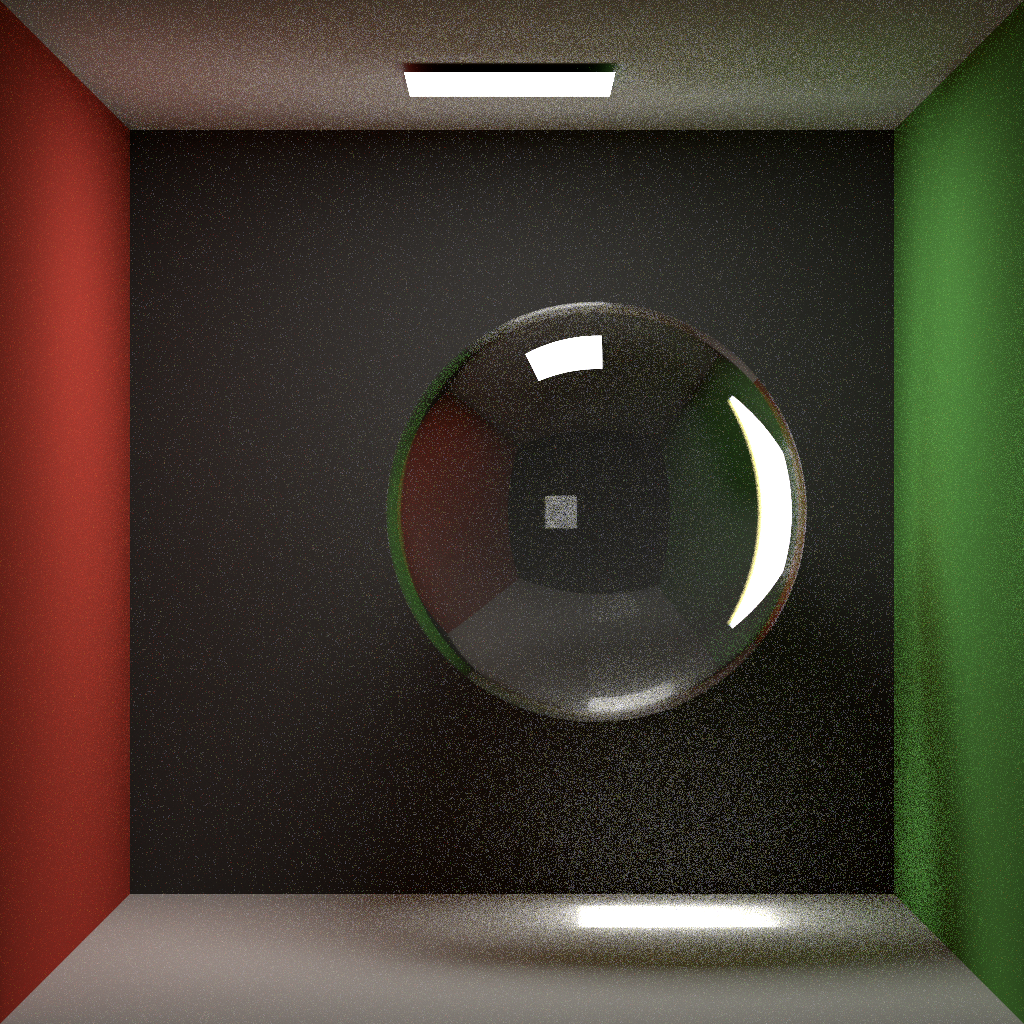
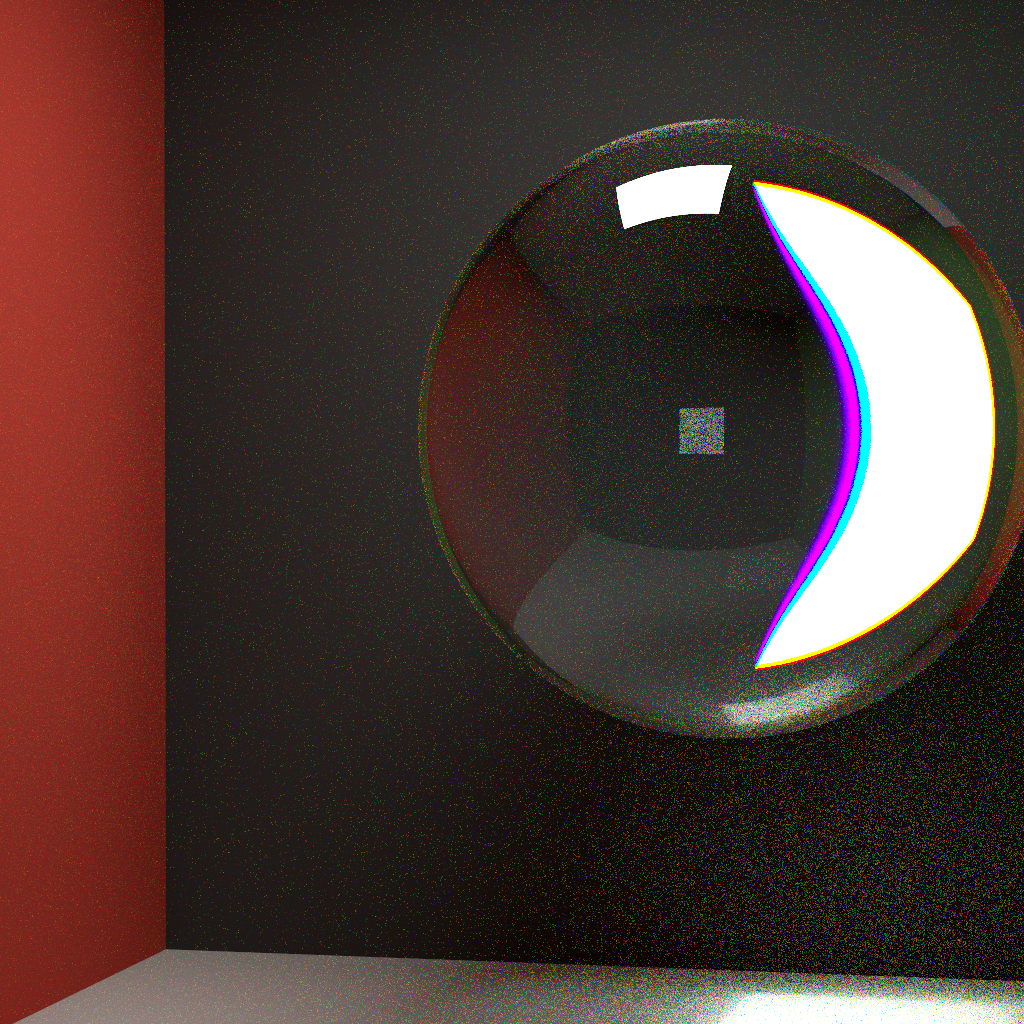
update glass

diff --git a/src/base/scattering/material.h b/src/base/scattering/material.h
@@ -40,6 +40,9 @@ public:
         // todo
         return {swl.dimension(), 0.f};
     }
+    [[nodiscard]] virtual optional<Bool> is_dispersive() const noexcept {
+        return {};
+    }
     [[nodiscard]] static Uchar combine_flag(Float3 wo, Float3 wi, Uchar flag) noexcept;
     [[nodiscard]] ScatterEval evaluate(Float3 world_wo, Float3 world_wi) const noexcept;
     [[nodiscard]] BSDFSample sample(Float3 world_wo, Sampler *sampler) const noexcept;
@@ -50,14 +53,21 @@ private:
     SP<const Fresnel> _fresnel;
     MicrofacetReflection _refl;
     MicrofacetTransmission _trans;
+    Bool _dispersive{};
 
 public:
     DielectricBSDF(const Interaction &si,
                    const SP<Fresnel> &fresnel,
                    MicrofacetReflection refl,
-                   MicrofacetTransmission trans)
-        : BSDF(si, refl.swl()), _fresnel(fresnel), _refl(move(refl)), _trans(move(trans)) {}
+                   MicrofacetTransmission trans,
+                   const Bool &dispersive)
+        : BSDF(si, refl.swl()), _fresnel(fresnel),
+          _refl(move(refl)), _trans(move(trans)),
+    _dispersive(dispersive){}
     [[nodiscard]] SampledSpectrum albedo() const noexcept override { return _refl.albedo(); }
+    [[nodiscard]] optional<Bool> is_dispersive() const noexcept override {
+        return _dispersive;
+    }
     [[nodiscard]] ScatterEval evaluate_local(Float3 wo, Float3 wi, Uchar flag) const noexcept override;
     [[nodiscard]] BSDFSample sample_local(Float3 wo, Uchar flag, Sampler *sampler) const noexcept override;
 };

diff --git a/src/plugins/integrators/pt.cpp b/src/plugins/integrators/pt.cpp
@@ -115,6 +115,11 @@ public:
                 auto sample_surface = [&]() {
                     _scene->materials().dispatch(it.mat_id, [&](const Material *material) {
                         UP<BSDF> bsdf = material->get_BSDF(it, swl);
+                        if (auto dispersive = bsdf->is_dispersive()){
+                            $if(*dispersive) {
+                                swl.invalidation_secondary();
+                            };
+                        }
                         Ld = direct_lighting(it, *bsdf, light_sample, occluded,
                                              sampler, swl, bsdf_sample);
                     });

diff --git a/src/base/color/spectrum.h b/src/base/color/spectrum.h
@@ -37,6 +37,21 @@ public:
     [[nodiscard]] Float4 pdf_vec4() const noexcept {
         return make_float4(_pdfs[0], _pdfs[1], _pdfs[2], _pdfs[3]);
     }
+    [[nodiscard]] Bool secondary_valid() const noexcept {
+        Bool ret = true;
+        for (uint i = 1; i < dimension(); ++i) {
+            ret = ret & pdf(i) != 0.f;
+        }
+        return ret;
+    }
+    void invalidation_secondary() noexcept {
+        $if(secondary_valid()) {
+            for (uint i = 1; i < dimension(); ++i) {
+                _pdfs[i] = 0.f;
+            }
+            _pdfs[0] = _pdfs[0] / 4.f;
+        };
+    }
 };
 
 class SampledSpectrum {

diff --git a/src/plugins/materials/glass.cpp b/src/plugins/materials/glass.cpp
@@ -109,7 +109,7 @@ public:
                                                       swl, render_pipeline());
         MicrofacetReflection refl(SampledSpectrum(swl.dimension(), 1.f), swl, microfacet);
         MicrofacetTransmission trans(color, swl, microfacet);
-        return make_unique<DielectricBSDF>(si, fresnel, move(refl), move(trans));
+        return make_unique<DielectricBSDF>(si, fresnel, move(refl), move(trans), bool(_ior_curve));
     }
 };
 }// namespace vision
